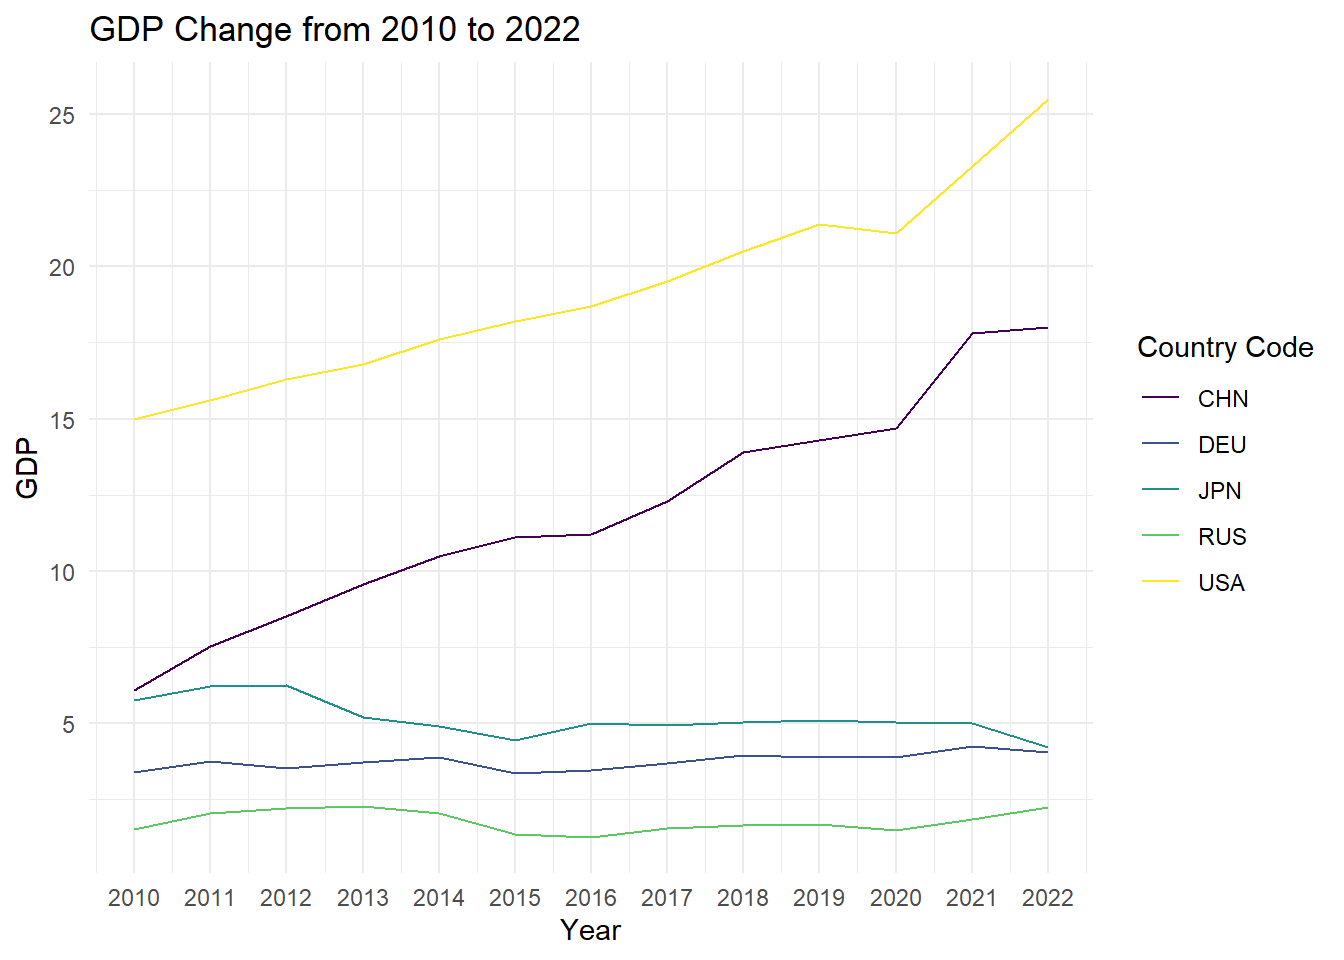
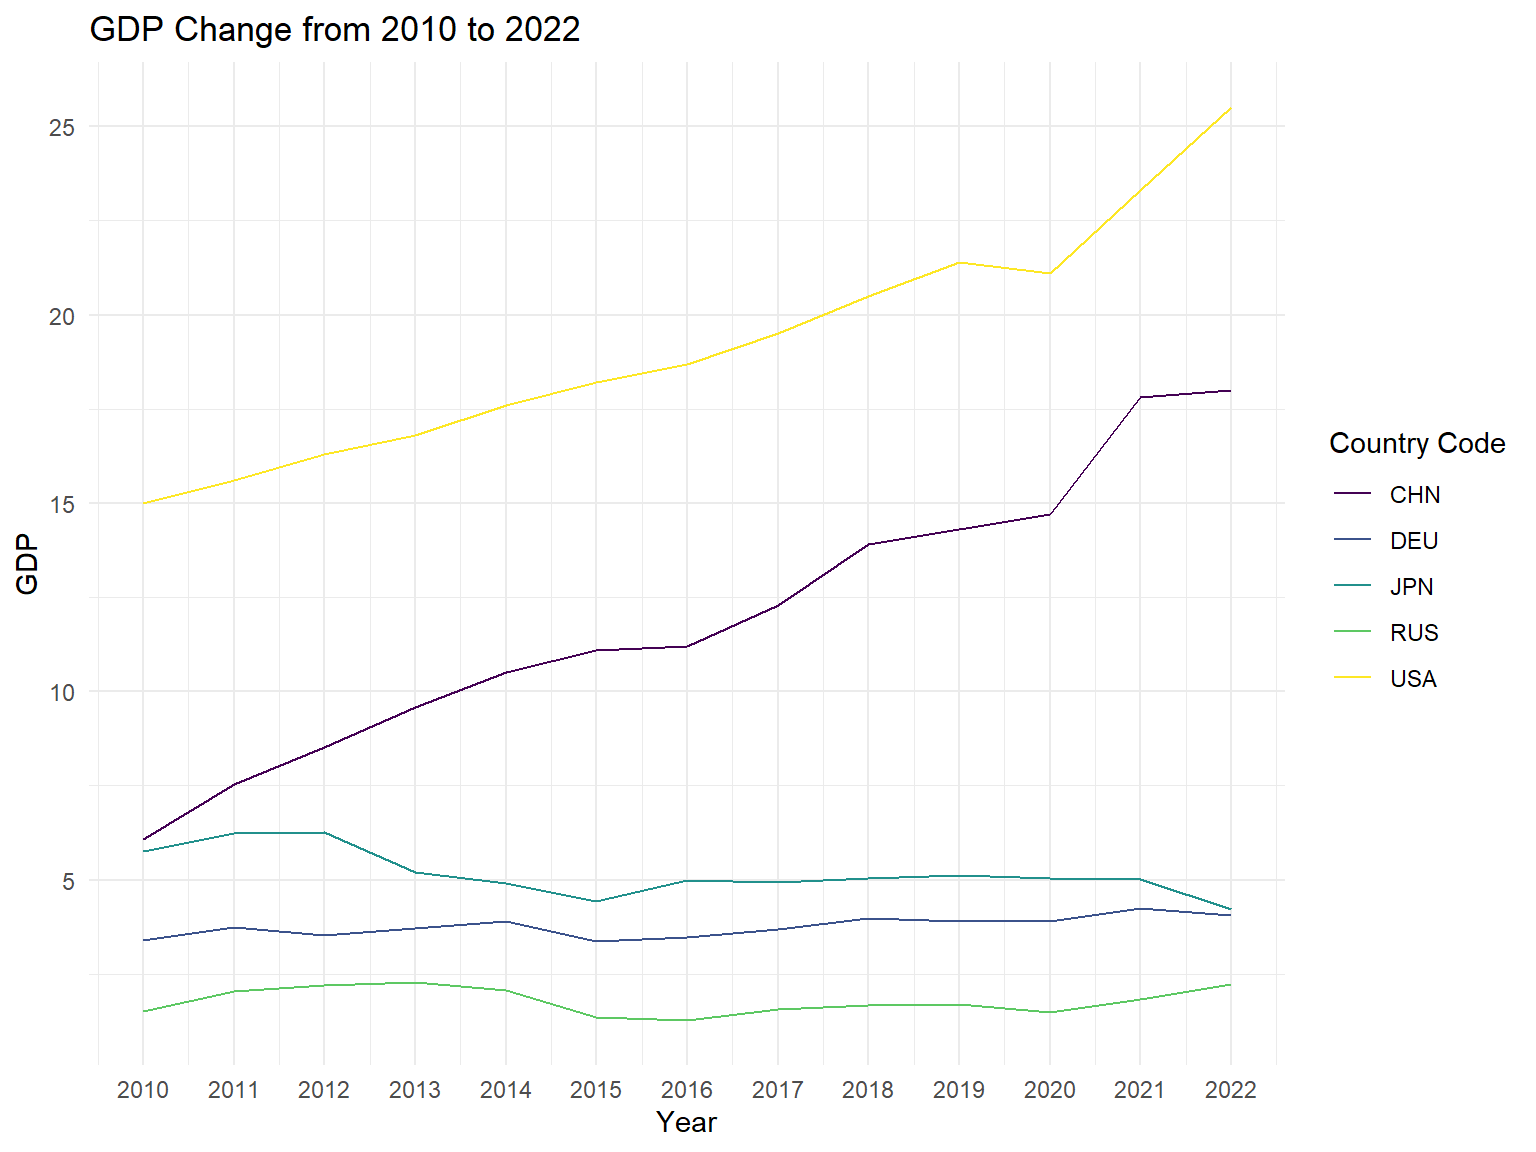
adding site_libs

diff --git a/docs/time_data.html b/docs/time_data.html
@@ -34,6 +34,7 @@
 <link href="site_libs/tocify-1.9.1/jquery.tocify.css" rel="stylesheet" />
 <script src="site_libs/tocify-1.9.1/jquery.tocify.js"></script>
 <script src="site_libs/navigation-1.1/tabsets.js"></script>
+<script src="site_libs/navigation-1.1/codefolding.js"></script>
 <link href="site_libs/highlightjs-9.12.0/default.css" rel="stylesheet" />
 <script src="site_libs/highlightjs-9.12.0/highlight.js"></script>
 <link href="site_libs/font-awesome-6.4.2/css/all.min.css" rel="stylesheet" />
@@ -223,6 +224,9 @@ $(document).ready(function () {
 </style>
 
 <!-- code folding -->
+<style type="text/css">
+.code-folding-btn { margin-bottom: 4px; }
+</style>
 
 
 
@@ -383,6 +387,14 @@ div.tocify {
 
 <div id="header">
 
+<div class="btn-group pull-right float-right">
+<button type="button" class="btn btn-default btn-xs btn-secondary btn-sm dropdown-toggle" data-toggle="dropdown" data-bs-toggle="dropdown" aria-haspopup="true" aria-expanded="false"><span>Code</span> <span class="caret"></span></button>
+<ul class="dropdown-menu dropdown-menu-right" style="min-width: 50px;">
+<li><a id="rmd-show-all-code" href="#">Show All Code</a></li>
+<li><a id="rmd-hide-all-code" href="#">Hide All Code</a></li>
+</ul>
+</div>
+
 
 
 <h1 class="title toc-ignore">EDA_Longitudinal</h1>
@@ -392,6 +404,10 @@ div.tocify {
 </div>
 
 
+<pre class="r"><code>library(tidyverse)
+library(readxl)
+library(dplyr)
+library(ggplot2)</code></pre>
 <div id="load-data" class="section level2">
 <h2>load data</h2>
 <pre class="r"><code>billionaire_gdp_indus_usa &lt;- read.csv(&quot;../data/billionaire_gdp_indus_usa.csv&quot;)
@@ -417,7 +433,7 @@ ggplot(data = gdp_selected, aes(x = year, y = gdp, color = code)) +
        x = &quot;Year&quot;, y = &quot;GDP&quot;,
        color = &quot;Country Code&quot;) +
   scale_x_continuous(breaks = 2010:2022) </code></pre>
-<p><img src="time_data_files/figure-html/5%20country%20gdp-1.png" width="672" /></p>
+<p><img src="time_data_files/figure-html/5%20country%20gdp-1.png" width="90%" /></p>
 </div>
 <div
 id="for-billionaire_gdp-net_worth-for-different-country-top-5-over-time"
@@ -451,7 +467,7 @@ ggplot(total_net_worth_by_year_country, aes(x = year, y = total_net_worth, group
   labs(title = &quot;Total Net Worth of billionaire by Top 5 Countries from 2010 to 2023&quot;,
        x = &quot;Year&quot;, y = &quot;Total Net Worth (Billions)&quot;,
        color = &quot;Country of Citizenship&quot;)</code></pre>
-<p><img src="time_data_files/figure-html/networth%205%20countries%20overtime-1.png" width="672" /></p>
+<p><img src="time_data_files/figure-html/networth%205%20countries%20overtime-1.png" width="90%" /></p>
 </div>
 </div>
 <div id="gender" class="section level2">
@@ -471,7 +487,7 @@ ggplot(total_net_worth_by_year_gender, aes(x = year, y = total_net_worth, color 
   labs(title = &quot;Total Net Worth by Gender from 2017 to 2022&quot;,
        x = &quot;Year&quot;, y = &quot;Total Net Worth (in billions)&quot;,
        color = &quot;Gender&quot;)</code></pre>
-<p><img src="time_data_files/figure-html/ave_net_worth%20by%20gender-1.png" width="672" /></p>
+<p><img src="time_data_files/figure-html/ave_net_worth%20by%20gender-1.png" width="90%" /></p>
 </div>
 <div id="industry-lifecycles-and-billionaire-wealth"
 class="section level2">
@@ -496,7 +512,7 @@ total_gdp_by_year_industry |&gt;
     labs(title = &quot;Total Industry GDP by Year from 2017 to 2022 in USA&quot;,
          x = &quot;Year&quot;, y = &quot;Industry GDP&quot;,
          color = &quot;Industries&quot;)</code></pre>
-<p><img src="time_data_files/figure-html/US%20industry%20gdp%20overtime-1.png" width="672" /></p>
+<p><img src="time_data_files/figure-html/US%20industry%20gdp%20overtime-1.png" width="90%" /></p>
 </div>
 </div>
 <div
@@ -525,7 +541,7 @@ ggplot(top_cities_by_year, aes(x = year, y = total_net_worth, group = city_of_re
        x = &quot;Year&quot;, y = &quot;Total Net Worth (Billions)&quot;,
        color = &quot;City of Residence&quot;) +
   theme(legend.position = &quot;bottom&quot;)</code></pre>
-<p><img src="time_data_files/figure-html/net_worth%20vs%20cities%20overtime-1.png" width="672" /></p>
+<p><img src="time_data_files/figure-html/net_worth%20vs%20cities%20overtime-1.png" width="90%" /></p>
 <p>Here are the top 5, and there are indeed 5 more. This is because in
 some years, the total city of net worth is surpassed by others.</p>
 </div>
@@ -542,7 +558,7 @@ ggplot(self_made_trend, aes(x = year, y = count, color = self_made, group = self
   labs(title = &quot;Self-Made Status Count Over Years&quot;,
        x = &quot;Year&quot;, y = &quot;Count&quot;,
        color = &quot;Self-Made Status&quot;)</code></pre>
-<p><img src="time_data_files/figure-html/line-selfmade-overtime-1.png" width="672" /></p>
+<p><img src="time_data_files/figure-html/line-selfmade-overtime-1.png" width="90%" /></p>
 <div id="section" class="section level6">
 <h6></h6>
 <p>update</p>
@@ -558,7 +574,7 @@ class="section level2">
   ggplot(aes(x = year, y = n, fill = gender)) +
   geom_bar(position=&quot;dodge&quot;, stat=&quot;identity&quot;) +
   scale_x_continuous(breaks = 2010:2023)</code></pre>
-<p><img src="time_data_files/figure-html/barplot-gender-1.png" width="672" /></p>
+<p><img src="time_data_files/figure-html/barplot-gender-1.png" width="90%" /></p>
 <pre class="r"><code># scale it to 1 to analyze the proportions
 bil_gender_prop &lt;-
   billionaire_gdp|&gt; 
@@ -573,7 +589,7 @@ bil_gender_prop |&gt;
   ggplot(aes(x = year, y = prop, fill = gender))+
   geom_bar(position=&quot;stack&quot;, stat=&quot;identity&quot;) +
   scale_x_continuous(breaks = 2010:2023)</code></pre>
-<p><img src="time_data_files/figure-html/barplot-gender-scaled-1.png" width="672" /></p>
+<p><img src="time_data_files/figure-html/barplot-gender-scaled-1.png" width="90%" /></p>
 </div>
 <div
 id="number-of-billionaires-in-different-industries-across-years-not-very-informative"
@@ -587,7 +603,7 @@ very informative?)</h2>
   ggplot(aes(x = year, y = n, fill = industries)) +
   geom_bar(position=&quot;stack&quot;, stat=&quot;identity&quot;) +
   scale_x_continuous(breaks = 2010:2023)</code></pre>
-<p><img src="time_data_files/figure-html/barplot-all%20industries-1.png" width="672" />
+<p><img src="time_data_files/figure-html/barplot-all%20industries-1.png" width="90%" />
 ## A quick overview: trend of average net worth of all billionaires
 across year</p>
 <pre class="r"><code>billionaire_gdp |&gt; 
@@ -597,7 +613,7 @@ across year</p>
   geom_line() +
   geom_point() +
   scale_x_continuous(breaks = 2010:2023)</code></pre>
-<p><img src="time_data_files/figure-html/ave_net_worth%20overtime-1.png" width="672" />
+<p><img src="time_data_files/figure-html/ave_net_worth%20overtime-1.png" width="90%" />
 <em>takeaways</em> 1. net worth plummeted in 2016 and 2020, and then
 skyrocketed in 2021</p>
 <pre class="r"><code>billionaire_gdp |&gt; 
@@ -607,7 +623,7 @@ skyrocketed in 2021</p>
   ggplot(aes(x = year, y = n, fill = self_made)) +
   geom_bar(position=&quot;dodge&quot;, stat=&quot;identity&quot;) +
   scale_x_continuous(breaks = 2010:2023)</code></pre>
-<p><img src="time_data_files/figure-html/barplot-self_made-1.png" width="672" /></p>
+<p><img src="time_data_files/figure-html/barplot-self_made-1.png" width="90%" /></p>
 <pre class="r"><code># scale it to 1 to analyze the proportions
 bil_selfmade_prop &lt;-
   billionaire_gdp|&gt; 
@@ -622,7 +638,7 @@ bil_selfmade_prop |&gt;
   ggplot(aes(x = year, y = prop, fill = self_made)) +
   geom_bar(position=&quot;stack&quot;, stat=&quot;identity&quot;) +
   scale_x_continuous(breaks = 2010:2023)</code></pre>
-<p><img src="time_data_files/figure-html/barplot-self_made-scaled-1.png" width="672" /></p>
+<p><img src="time_data_files/figure-html/barplot-self_made-scaled-1.png" width="90%" /></p>
 <pre class="r"><code>billionaire_gdp_indus_usa |&gt; 
   drop_na(industry_gdp) |&gt; 
   group_by(year, industries) |&gt; 
@@ -630,7 +646,7 @@ bil_selfmade_prop |&gt;
   ggplot(aes(x = year, y = n, fill = industries)) +
   geom_bar(position=&quot;stack&quot;, stat=&quot;identity&quot;) +
   scale_x_continuous(breaks = 2017:2022)</code></pre>
-<p><img src="time_data_files/figure-html/barplot-US%20industries-1.png" width="672" /></p>
+<p><img src="time_data_files/figure-html/barplot-US%20industries-1.png" width="90%" /></p>
 <pre class="r"><code>bil_us_indus_prop &lt;-
   billionaire_gdp_indus_usa |&gt; 
   drop_na(industry_gdp) |&gt; 
@@ -644,7 +660,7 @@ bil_us_indus_prop |&gt;
   ggplot(aes(x = year, y = prop, fill = industries)) +
   geom_bar(position=&quot;stack&quot;, stat=&quot;identity&quot;) +
   scale_x_continuous(breaks = 2017:2022)</code></pre>
-<p><img src="time_data_files/figure-html/barplot-US%20industreis%20scaled-1.png" width="672" /></p>
+<p><img src="time_data_files/figure-html/barplot-US%20industreis%20scaled-1.png" width="90%" /></p>
 </div>
 
 <hr>
@@ -684,6 +700,11 @@ $(document).ready(function () {
 </script>
 
 <!-- code folding -->
+<script>
+$(document).ready(function () {
+  window.initializeCodeFolding("hide" === "show");
+});
+</script>
 
 <script>
 $(document).ready(function ()  {
